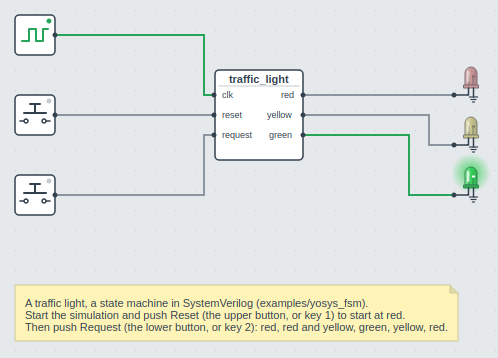
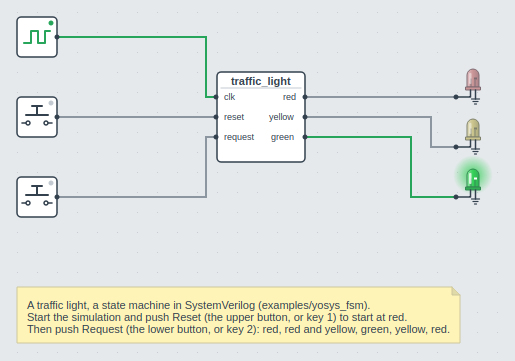
Regenerate the docs images for the new look
The tutorial now accepts the color dialog of the LED, and calls ports dots,
as they are drawn now.

Changed region(s): [[0.0301, 0.0307, 0.994, 0.6145], [0.0301, 0.7682, 0.9337, 0.9525]]

diff --git a/docs/scripts/generate_tutorial.py b/docs/scripts/generate_tutorial.py
@@ -1,4 +1,4 @@
-# Copyright (c) Fredrik Andersson, 2023-2025
+# Copyright (c) Fredrik Andersson, 2023-2026
 # All rights reserved
 
 """
@@ -198,8 +198,15 @@ def main() -> None:
         "05_and_gate", [tutorial.rect_in_window(and_item), tutorial.object_rect(and_gate)]
     )
 
-    # 5. The LED
+    # 5. The LED, it asks for its color: red
     led_item = tutorial.selector_item("Led")
+
+    def accept_dialog() -> None:
+        dialog = QApplication.activeModalWidget()
+        assert dialog is not None
+        dialog.accept()
+
+    QTimer.singleShot(300, accept_dialog)
     led = tutorial.add("Led", 0.75, 0.47)
     tutorial.shot("06_led", [tutorial.rect_in_window(led_item), tutorial.object_rect(led)])
 

diff --git a/docs/first-circuit.md b/docs/first-circuit.md
@@ -69,14 +69,14 @@ right side.
 
 ## 5. Add an LED
 
-Drag an **LED** from the **Output** group to the right of the AND gate. It has a single
-input on its left side.
+Drag an **LED** from the **Output** group to the right of the AND gate. It asks for its
+color: keep **red** and click **OK**. It has a single input on its left side.
 
 ![The LED in the circuit area](images/tutorial/06_led.png)
 
 ## 6. Connect the wires
 
-Wires connect the small squares on the sides of the components, called **ports**.
+Wires connect the small dots on the sides of the components, called **ports**.
 Outputs are on the right side of a component and inputs on the left side.
 
 To draw a wire, **click a port**, and then **click the port you want to connect it to**.
